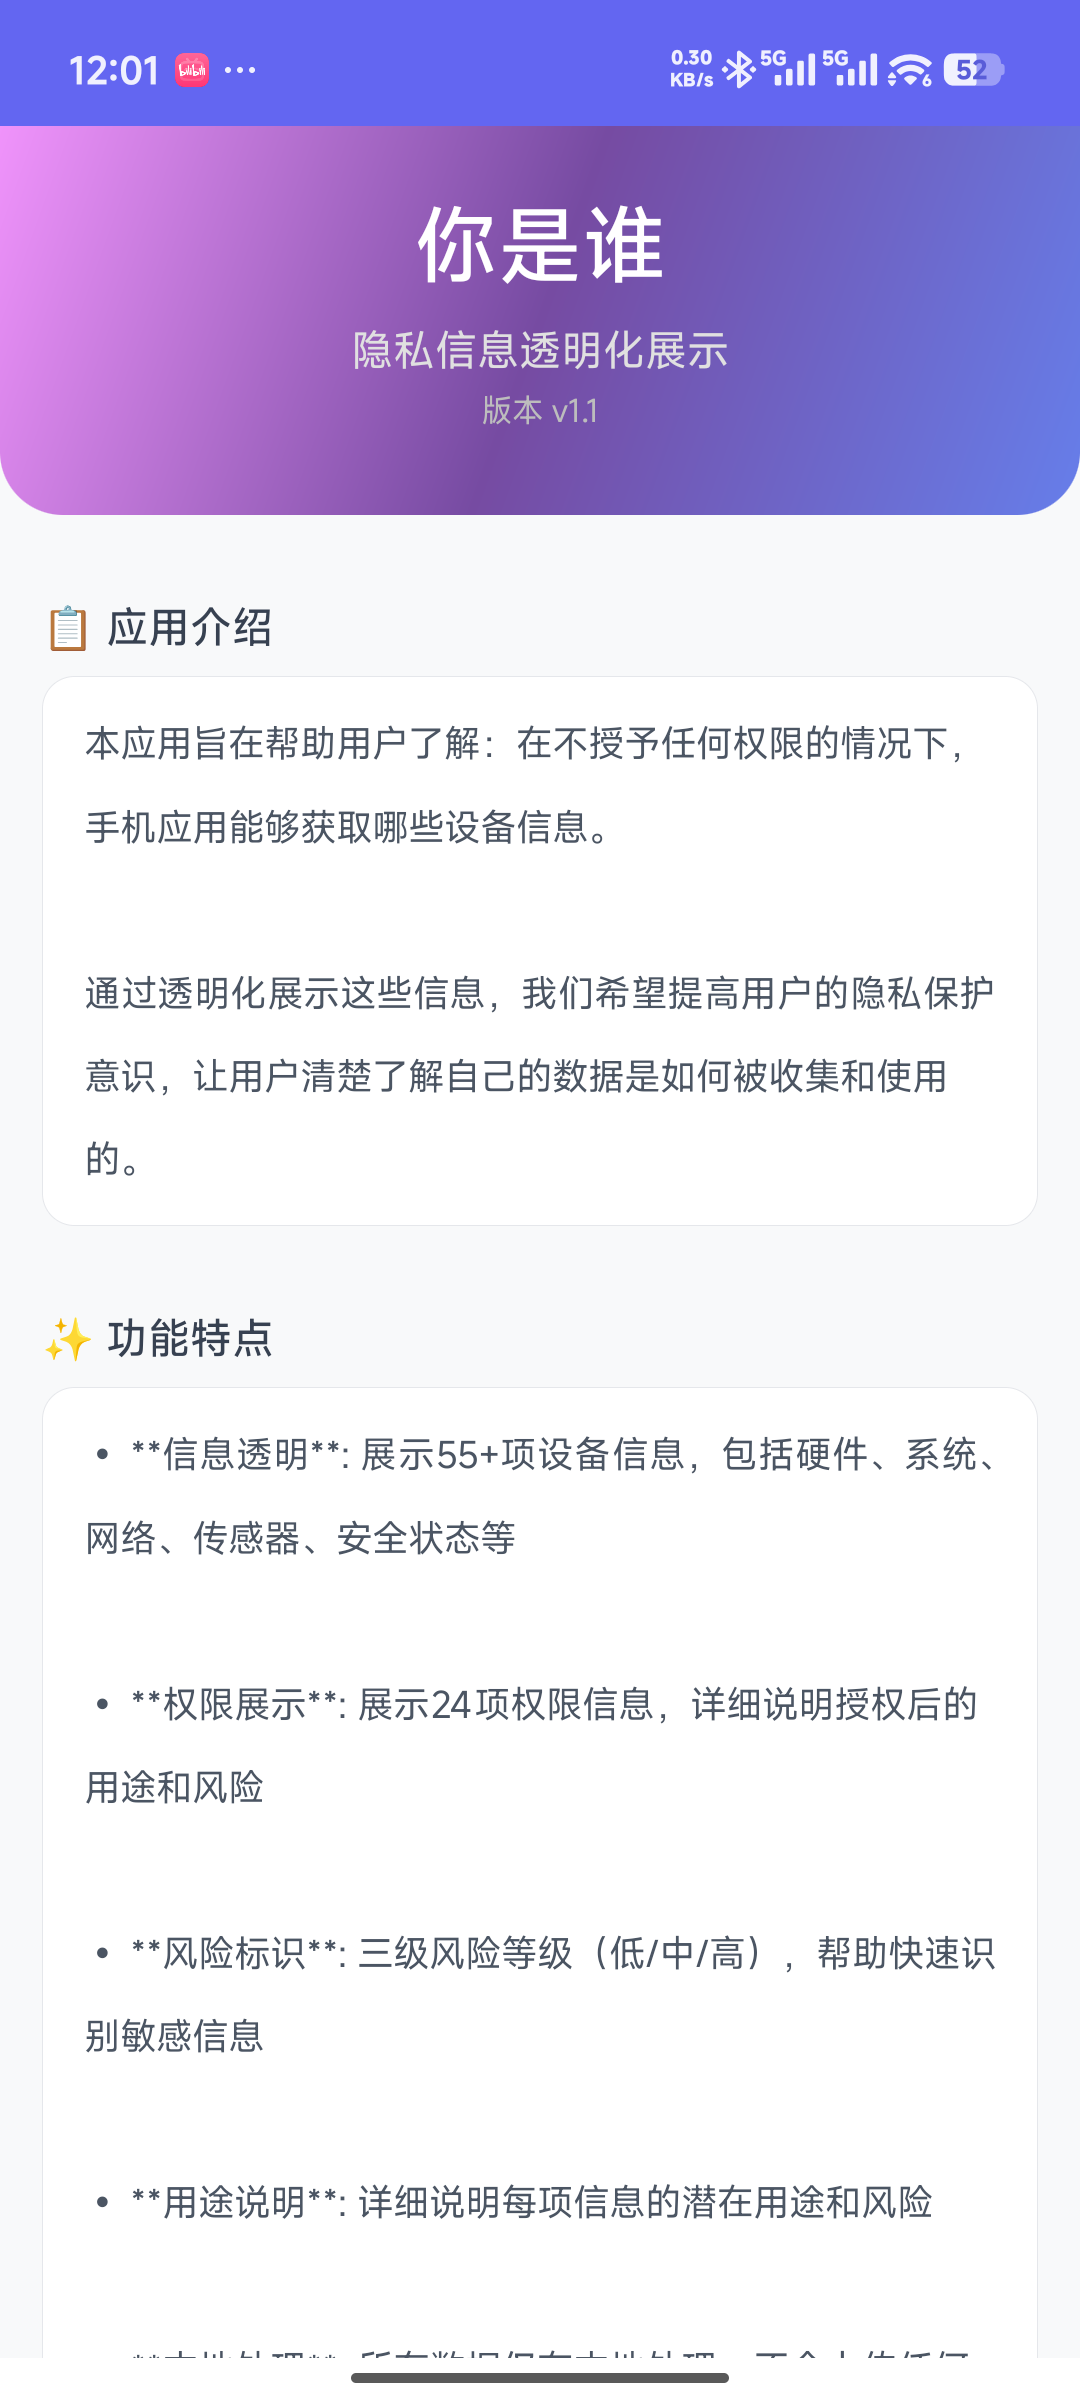
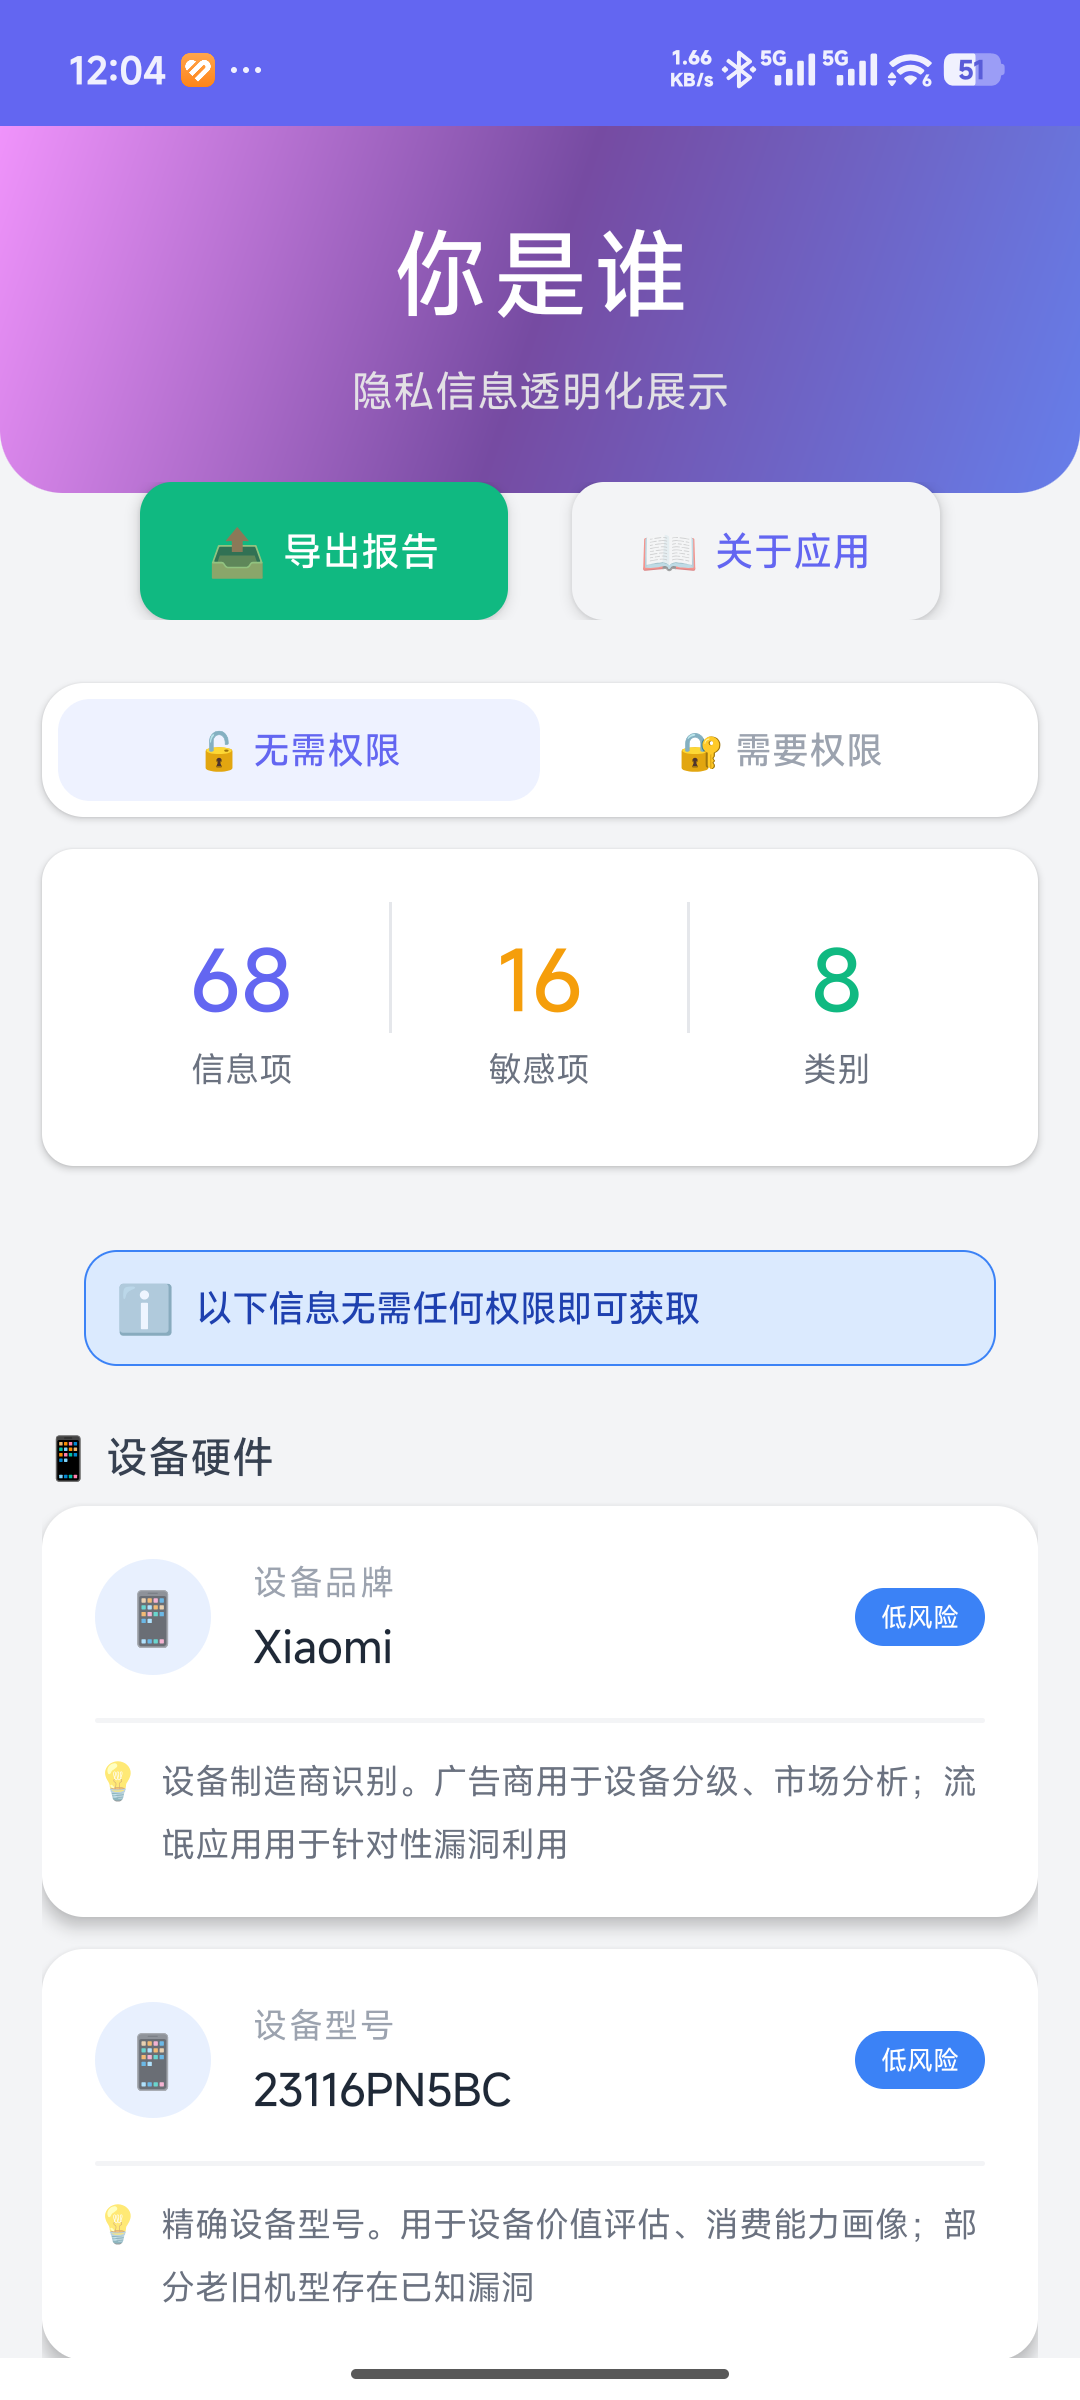
Update screenshots with correct pages

diff --git a/README.md b/README.md
@@ -59,18 +59,18 @@ Each permission includes:
 
 ## 📸 Screenshots
 
-| Main Interface | Permission View | About Page |
-|:--------------:|:---------------:|:----------:|
-| ![Main Interface](screenshots/main.png) | ![Permission View](screenshots/permission.png) | ![About Page](screenshots/about.png) |
+| 首页/无需权限 | 需要权限 | 关于应用 |
+|:------------:|:--------:|:--------:|
+| ![首页/无需权限](screenshots/main.png) | ![需要权限](screenshots/permission.png) | ![关于应用](screenshots/about.png) |
 
-### Main Interface
-Displays 55+ items of device information that can be obtained without any permissions, categorized by type with risk level indicators.
+### 首页/无需权限
+展示55+项无需任何权限即可获取的设备信息，按类别分类并显示风险等级。
 
-### Permission View
-Shows 24 permission types with detailed descriptions and risk analysis, helping users understand what data each permission can access and the potential privacy risks.
+### 需要权限
+展示24项权限类型及其详细描述和风险分析，帮助用户了解每项权限能访问的数据及潜在隐私风险。
 
-### About Page
-Provides educational information about privacy protection, technical details, and usage tips.
+### 关于应用
+提供隐私保护教育信息、技术说明和使用建议。
 
 ## 🚀 Installation
 